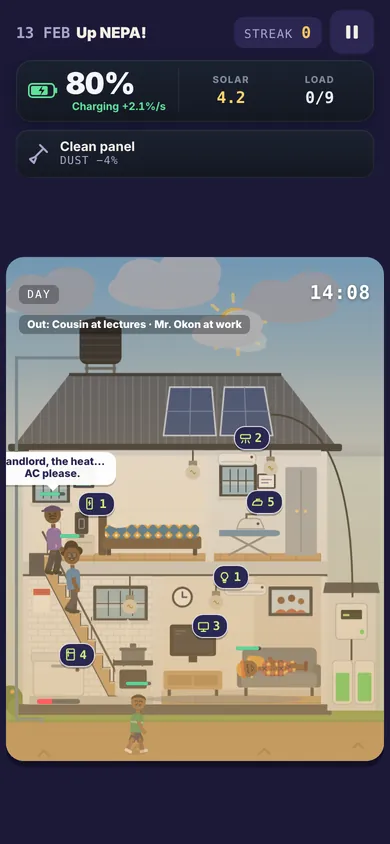
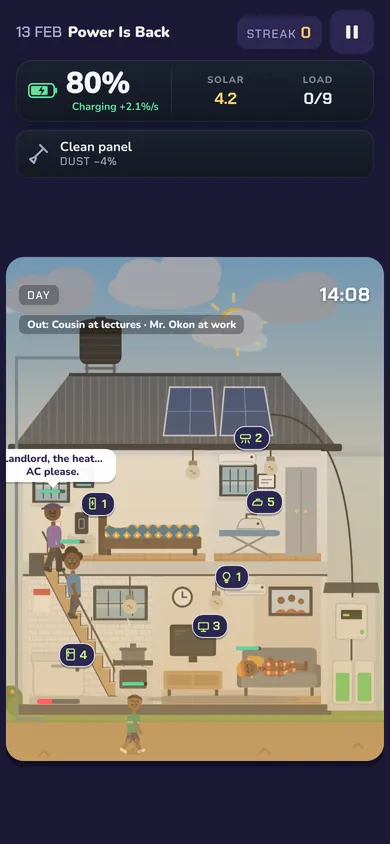
Universal wording and new screenshots (no NEPA, dollars)
Claude-Session: https://claude.ai/code/session_01XCX9VJMYj2BD7Xrw9AS42A

diff --git a/index.html b/index.html
@@ -4,7 +4,7 @@
 <meta charset="utf-8">
 <meta name="viewport" content="width=device-width, initial-scale=1">
 <title>Last Light – keep the house alive for a whole year</title>
-<meta name="description" content="Last Light is a game about running a Nigerian family home on solar power. Share the battery between Mama, Cousin, Brother and Mr. Okon, survive NEPA outages, and keep the lights on until dawn.">
+<meta name="description" content="Last Light is a game about running a family home on solar power. Share the battery between Mama, Cousin, Brother and Mr. Okon, survive power cuts, and keep the lights on until dawn.">
 <link rel="canonical" href="https://lastlight.victorvandi.com/">
 <meta name="theme-color" content="#1d1a3c">
 <link rel="icon" type="image/png" href="/favicon.png">
@@ -31,7 +31,7 @@
       <div>
         <p class="eyebrow">A solar-powered family game</p>
         <h1>Keep the house alive for a whole year.</h1>
-        <p class="lead">Mama wants the AC. Brother wants the TV. Cousin's phone is dying, Mr. Okon needs his iron, and NEPA has taken light again. You have one battery and a few solar panels. Make it to dawn.</p>
+        <p class="lead">Mama wants the AC. Brother wants the TV. Cousin's phone is dying, Mr. Okon needs his iron, and the power has gone off again. You have one battery and a few solar panels. Make it to dawn.</p>
         <div class="cta">
           <span class="btn primary" aria-disabled="true">Google Play <span class="soon">Coming soon</span></span>
           <a class="btn ghost" href="#play">See how it plays</a>
@@ -49,7 +49,7 @@
       <div class="features">
         <div class="feature"><div class="ic" aria-hidden="true">⚡</div><h3>Share the power</h3><p>Tap appliances on and off. Go over the inverter's limit and it trips. Run the battery flat and the whole house goes dark.</p></div>
         <div class="feature"><div class="ic" aria-hidden="true">🏠</div><h3>Keep the family happy</h3><p>Everyone has a routine and a temper. Bargain, say yes, say not now, and watch their patience rise and fall.</p></div>
-        <div class="feature"><div class="ic" aria-hidden="true">📅</div><h3>Live a whole year</h3><p>365 days of harmattan dust, rainy season, heatwaves, fuel scarcity, NEPA strikes, Christmas and Crossover Night.</p></div>
+        <div class="feature"><div class="ic" aria-hidden="true">📅</div><h3>Live a whole year</h3><p>365 days of dusty dry season, rainy season, heatwaves, fuel shortages, power strikes, Christmas and New Year's Eve.</p></div>
         <div class="feature"><div class="ic" aria-hidden="true">🎯</div><h3>Daily goals</h3><p>Three new goals every day. Finish all three to build a streak and earn bonus money.</p></div>
         <div class="feature"><div class="ic" aria-hidden="true">💰</div><h3>Build your future</h3><p>Save up to own your home, buy the Volta electric car, and turn the house into a smart home with more panels.</p></div>
         <div class="feature"><div class="ic" aria-hidden="true">🌅</div><h3>The light tells the time</h3><p>Morning sun, golden afternoon, orange sunset, a long dark night. Plan ahead before the solar stops.</p></div>
@@ -65,7 +65,7 @@
         <figure><img src="/assets/goals-sm.webp" alt="Start of a day: the family, the weather and today's three goals" loading="lazy" width="390" height="844"><figcaption>Start of the day</figcaption></figure>
         <figure><img src="/assets/day-sm.webp" alt="Daytime: the solar panels charge the battery while the family asks for power" loading="lazy" width="390" height="844"><figcaption>Afternoon sun</figcaption></figure>
         <figure><img src="/assets/evening-sm.webp" alt="Evening: the sun sets and requests pile up" loading="lazy" width="390" height="844"><figcaption>Sunset rush</figcaption></figure>
-        <figure><img src="/assets/night-sm.webp" alt="Night: NEPA brings grid power back and the family cheers" loading="lazy" width="390" height="844"><figcaption>Up NEPA!</figcaption></figure>
+        <figure><img src="/assets/night-sm.webp" alt="Night: grid power comes back and the family cheers" loading="lazy" width="390" height="844"><figcaption>Power is back!</figcaption></figure>
       </div>
     </div>
   </section>

diff --git a/privacy/index.html b/privacy/index.html
@@ -50,7 +50,7 @@
   <p>The app asks for one permission: <strong>vibration</strong>, used for game feedback. You can turn it off in the game.</p>
 
   <h2>5. In-game money</h2>
-  <p>The naira you earn in the game is not real money. It cannot be bought, sold or withdrawn, and the app has no in-app purchases.</p>
+  <p>The money you earn in the game is not real money. It cannot be bought, sold or withdrawn, and the app has no in-app purchases.</p>
 
   <h2>6. Children</h2>
   <p>The app is not directed at children under 13, and it does not knowingly collect information from anyone.</p>

diff --git a/404.html b/404.html
@@ -20,7 +20,7 @@
   <div class="wrap narrow">
     <p class="eyebrow">Lights out</p>
     <h1>This page is gone.</h1>
-    <p class="date">NEPA took it. <a href="/" style="color:var(--amber-hot)">Go back to the home page</a>.</p>
+    <p class="date">The power went out on it. <a href="/" style="color:var(--amber-hot)">Go back to the home page</a>.</p>
   </div>
 </div>
 </body>
